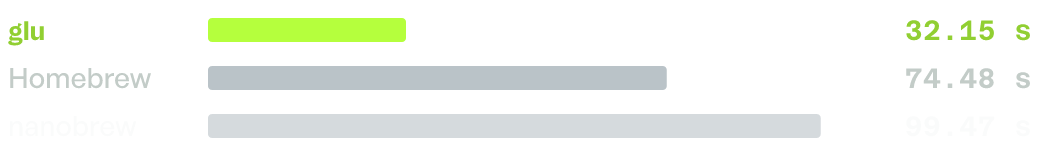
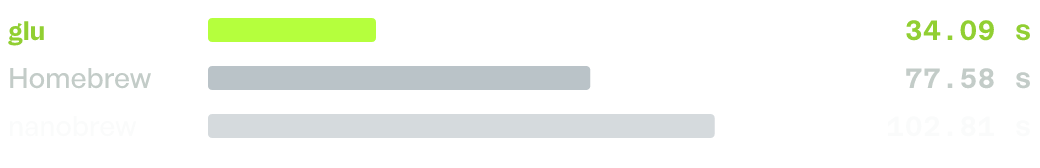
update benchmarks

diff --git a/README.md b/README.md
@@ -15,7 +15,7 @@
 <p align="center">
     <picture>
       <source media="(prefers-color-scheme: dark)" srcset="docs/assets/benchmark-vips-dark.png">
-      <img src="docs/assets/benchmark-vips-light.png" width="520" alt="Median vips install time: glu 32.15 seconds, Homebrew 74.48 seconds, nanobrew 99.47 seconds. Lower is better.">
+      <img src="docs/assets/benchmark-vips-light.png" width="520" alt="Median vips install time: glu 34.09 seconds, Homebrew 77.58 seconds, nanobrew 102.81 seconds. Lower is better.">
     </picture><br>
     <em>Installing <a href="https://glu.run/packages/vips">vips</a> with all dependencies from a cold cache, including downloads.</em>
 </p>
